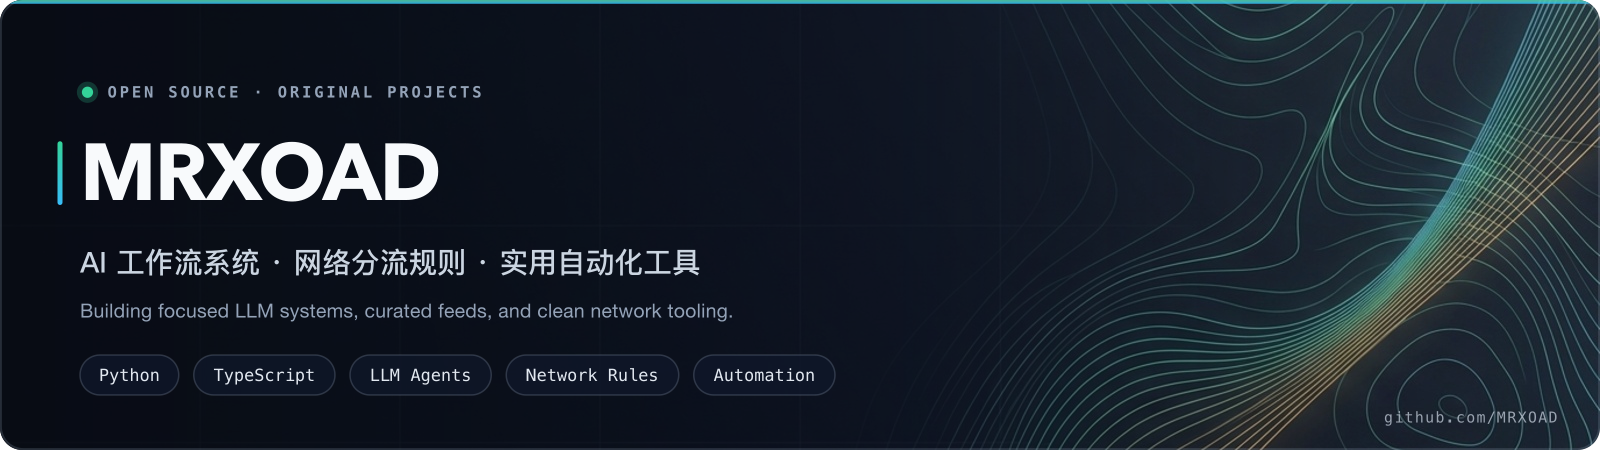
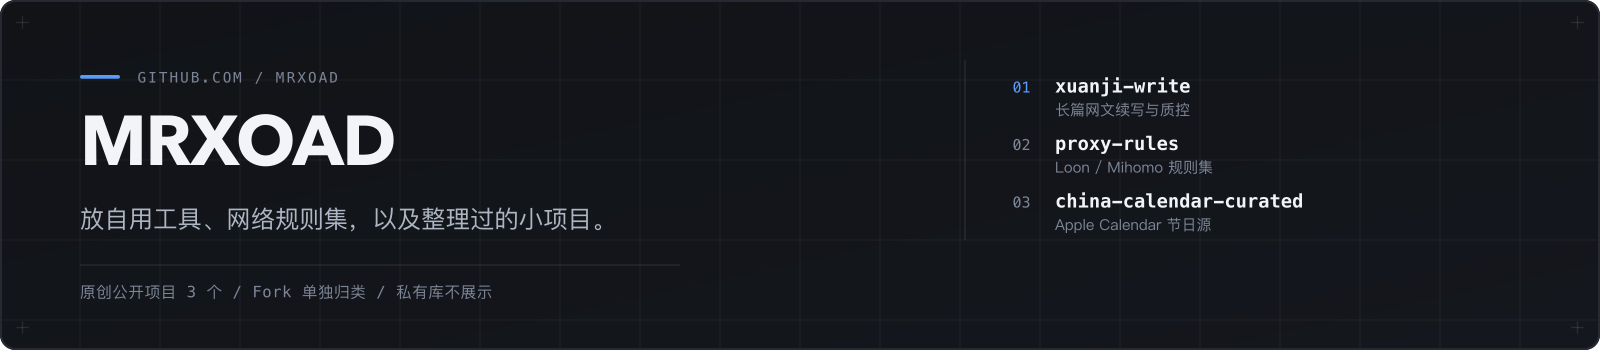
refactor: switch profile README and covers to understated monochrome style

diff --git a/README.md b/README.md
@@ -1,130 +1,28 @@
-<p align="center">
+<p>
   <picture>
     <source media="(prefers-color-scheme: dark)" srcset="./assets/banner-dark.png" />
     <source media="(prefers-color-scheme: light)" srcset="./assets/banner-light.png" />
-    <img alt="MRXOAD — Open Source & Original Projects" src="./assets/banner-dark.png" width="100%" />
+    <img alt="MRXOAD" src="./assets/banner-dark.png" width="100%" />
   </picture>
 </p>
 
-<p align="center">
-  <a href="#original-projects"><img src="https://img.shields.io/badge/Original_Repos-3-10B981?style=flat-square" alt="Original Repos" /></a>
-  <a href="https://mrxoad.github.io/china-calendar-curated/all.ics"><img src="https://img.shields.io/badge/Live_Feed-China_Calendar-F59E0B?style=flat-square" alt="China Calendar Live Feed" /></a>
-  <a href="#upstream-forks"><img src="https://img.shields.io/badge/Upstream_Forks-Separated-64748B?style=flat-square" alt="Upstream Forks Separated" /></a>
-</p>
+这里只放整理过、可以直接复用的自用工具和规则集。私有仓库不在这里展示，顺手 Fork 的上游项目单独放在下面。
 
-<br />
+## 原创项目
 
-专注做**解决真实痛点、可长期维护**的轻量工程工具——覆盖长文本 LLM 工作流、网络分流规则体系以及自动化日历/数据订阅源。
+| 项目 | 说明 | 入口 |
+| --- | --- | --- |
+| [**xuanji-write**](https://github.com/MRXOAD/xuanji-write) | 中文长篇网文 LLM 续写框架，含 11 层一致性审查、写作/监控双模型分流与进度面板 | Python / Docker · [CI](https://github.com/MRXOAD/xuanji-write/actions/workflows/ci.yml) |
+| [**proxy-rules**](https://github.com/MRXOAD/proxy-rules) | 自用 Loon 与 Mihomo 分流规则集及去广告插件，支持 GitHub Raw 直接引入 | Loon / Mihomo · [清单](https://github.com/MRXOAD/proxy-rules#规则与插件清单) |
+| [**china-calendar-curated**](https://github.com/MRXOAD/china-calendar-curated) | Apple Calendar 精选中国节日、农历与二十四节气订阅源，发布前自动对照 Apple 官方源去重 | Python / Pages · [all.ics](https://mrxoad.github.io/china-calendar-curated/all.ics) |
 
-> **仓库边界说明**：公开主页仅呈现独立维护的开源项目；私有工程与日常实验环境保持独立隔离，上游 Fork 单独归类，不与原创项目混排。
-
----
-
-<a id="original-projects"></a>
-
-## ❖ 原创公开项目 · Original Projects
-
-<table>
-  <thead>
-    <tr>
-      <th align="left" width="24%">项目</th>
-      <th align="left" width="46%">定位与核心能力</th>
-      <th align="left" width="16%">技术栈</th>
-      <th align="left" width="14%">状态 / 入口</th>
-    </tr>
-  </thead>
-  <tbody>
-    <tr>
-      <td>
-        <a href="https://github.com/MRXOAD/xuanji-write"><strong>xuanji-write</strong></a><br />
-        <sub>长篇网文 LLM 续写框架</sub>
-      </td>
-      <td>
-        面向百章以上中文长篇写作的 LLM 续写与质控框架：内置 <strong>11 层一致性堵漏</strong>（故事合约、角色锚点、伏笔追踪、RAG 反向防复读、章末审查重试）、写作/监控双模型分流，以及 Streamlit + React 实时看板。
-      </td>
-      <td>
-        <code>Python</code><br />
-        <code>FastAPI</code> <code>React</code><br />
-        <code>Docker</code>
-      </td>
-      <td>
-        <a href="https://github.com/MRXOAD/xuanji-write/actions/workflows/ci.yml"><img src="https://github.com/MRXOAD/xuanji-write/actions/workflows/ci.yml/badge.svg" alt="CI" /></a><br />
-        <img src="https://img.shields.io/github/stars/MRXOAD/xuanji-write?style=flat-square&color=38BDF8" alt="Stars" />
-      </td>
-    </tr>
-    <tr>
-      <td>
-        <a href="https://github.com/MRXOAD/proxy-rules"><strong>proxy-rules</strong></a><br />
-        <sub>网络分流与去广告规则库</sub>
-      </td>
-      <td>
-        持续维护的 <strong>Loon</strong> 与 <strong>Mihomo (Clash Meta)</strong> 分流规则集及去广告插件仓库：含 54 份 Loon 规则、58 个去广告/增强插件与 79 份 Mihomo 规则（支持 <code>.mrs</code> / <code>.yaml</code> / <code>.list</code> 直连引入）。
-      </td>
-      <td>
-        <code>JavaScript</code><br />
-        <code>Loon</code> <code>Mihomo</code>
-      </td>
-      <td>
-        <img src="https://img.shields.io/github/last-commit/MRXOAD/proxy-rules?style=flat-square&label=Updated&color=10B981" alt="Updated" /><br />
-        <img src="https://img.shields.io/github/forks/MRXOAD/proxy-rules?style=flat-square&color=10B981" alt="Forks" />
-      </td>
-    </tr>
-    <tr>
-      <td>
-        <a href="https://github.com/MRXOAD/china-calendar-curated"><strong>china-calendar-curated</strong></a><br />
-        <sub>精选中国节日日历订阅源</sub>
-      </td>
-      <td>
-        面向 Apple Calendar（iPhone / iPad / Mac）的 2000–2100 年中国节日、农历与二十四节气订阅源：发布前自动比对 Apple 官方节假日源去重，GitHub Actions 每月自动构建并发布至 GitHub Pages。
-      </td>
-      <td>
-        <code>Python</code><br />
-        <code>ICS</code> <code>Actions</code><br />
-        <code>GitHub Pages</code>
-      </td>
-      <td>
-        <a href="https://github.com/MRXOAD/china-calendar-curated/actions/workflows/build.yml"><img src="https://github.com/MRXOAD/china-calendar-curated/actions/workflows/build.yml/badge.svg" alt="Build" /></a><br />
-        <a href="https://mrxoad.github.io/china-calendar-curated/all.ics"><img src="https://img.shields.io/badge/Subscribe-all.ics-F59E0B?style=flat-square" alt="Subscribe" /></a>
-      </td>
-    </tr>
-  </tbody>
-</table>
-
----
-
-## ❖ 关注方向与常用栈 · Focus & Stack
-
-| 方向 | 实践内容 |
-| --- | --- |
-| **LLM & Agent 工作流** | 长程上下文控制、结构化审查管线、多模型成本分流与自动化评测 |
-| **网络规则与代理工程** | Loon / Mihomo 规则去重编译、去广告重写脚本与跨端同步 |
-| **实用自动化工具** | 零运维 GitHub Actions 定时生成、静态订阅源发布与回归测试 |
-
-<p>
-  <img src="https://img.shields.io/badge/Python-1E293B?style=flat-square&logo=python&logoColor=38BDF8" alt="Python" />
-  <img src="https://img.shields.io/badge/TypeScript-1E293B?style=flat-square&logo=typescript&logoColor=38BDF8" alt="TypeScript" />
-  <img src="https://img.shields.io/badge/JavaScript-1E293B?style=flat-square&logo=javascript&logoColor=F59E0B" alt="JavaScript" />
-  <img src="https://img.shields.io/badge/FastAPI-1E293B?style=flat-square&logo=fastapi&logoColor=34D399" alt="FastAPI" />
-  <img src="https://img.shields.io/badge/React-1E293B?style=flat-square&logo=react&logoColor=38BDF8" alt="React" />
-  <img src="https://img.shields.io/badge/Docker-1E293B?style=flat-square&logo=docker&logoColor=38BDF8" alt="Docker" />
-  <img src="https://img.shields.io/badge/GitHub_Actions-1E293B?style=flat-square&logo=githubactions&logoColor=E2E8F0" alt="GitHub Actions" />
-</p>
-
----
-
-<a id="upstream-forks"></a>
-
-## ❖ 上游跟踪 · Upstream Forks
+## Fork
 
 <details>
-<summary>展开查看独立归类的公开 Fork（用于上游追踪与学习，非原创项目）</summary>
+<summary>上游跟踪（非原创，与上方项目分开）</summary>
 
-<br />
-
-| Fork 仓库 | 上游来源 | 方向 |
-| --- | --- | --- |
-| [`MRXOAD/rea`](https://github.com/MRXOAD/rea) | [`morluto/rea`](https://github.com/morluto/rea) | Agent 驱动的逆向工程工具链 |
-| [`MRXOAD/CyberStrikeAI`](https://github.com/MRXOAD/CyberStrikeAI) | [`chigejuzi520/CyberStrikeAI`](https://github.com/chigejuzi520/CyberStrikeAI) | AI 原生安全自动化执行系统 |
-| [`MRXOAD/codex-with-chatgpt`](https://github.com/MRXOAD/codex-with-chatgpt) | [`XiaoDuoYa/codex-with-chatgpt`](https://github.com/XiaoDuoYa/codex-with-chatgpt) | ChatGPT 规划 + Codex 执行协作 |
+- [MRXOAD/rea](https://github.com/MRXOAD/rea) ← [morluto/rea](https://github.com/morluto/rea)
+- [MRXOAD/CyberStrikeAI](https://github.com/MRXOAD/CyberStrikeAI) ← [chigejuzi520/CyberStrikeAI](https://github.com/chigejuzi520/CyberStrikeAI)
+- [MRXOAD/codex-with-chatgpt](https://github.com/MRXOAD/codex-with-chatgpt) ← [XiaoDuoYa/codex-with-chatgpt](https://github.com/XiaoDuoYa/codex-with-chatgpt)
 
 </details>
